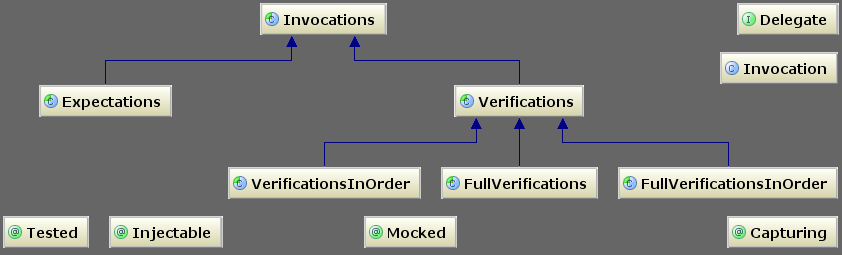
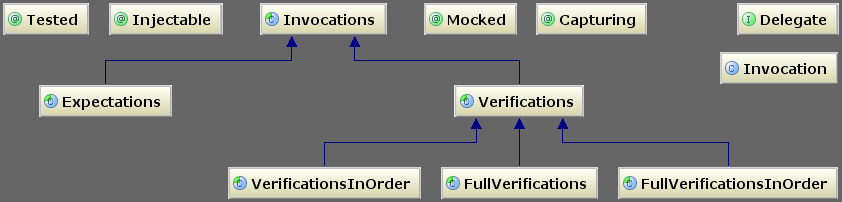
Reorganized API figures.

diff --git a/api1x/overview.html b/api1x/overview.html
@@ -12,23 +12,23 @@
 </p>
 <div style="text-align: center" title="Click on the types or titles to open associated documentation">
    <map name="figure1">
-      <area coords=" 14, 12,362, 28" href="../tutorial/EnterpriseApplications.html" target="tested">
-      <area coords=" 11, 37, 98, 71" href="mockit/Tested.html">
-      <area coords=" 17, 96,106,112" href="../tutorial/Mocking.html" target="mocking">
-      <area coords=" 45,176,179,209" href="mockit/Expectations.html">
-      <area coords="460,176,592,209" href="mockit/Verifications.html">
-      <area coords="234,258,428,291" href="mockit/VerificationsInOrder.html">
-      <area coords="447,258,605,291" href="mockit/FullVerifications.html">
-      <area coords="624,258,845,291" href="mockit/FullVerificationsInOrder.html">
-      <area coords="743, 94,845,127" href="mockit/Delegate.html">
-      <area coords="726,143,845,176" href="mockit/Invocation.html">
-      <area coords="369,308,480,340" href="mockit/Injectable.html">
-      <area coords=" 11,308,103,340" href="mockit/Mocked.html">
-      <area coords="733,308,845,340" href="mockit/Capturing.html">
-      <area coords="428, 12,503, 28" href="../tutorial/Faking.html" target="faking">
-      <area coords="422, 37,552, 71" href="mockit/MockUp.html">
-      <area coords="561, 37,636, 71" href="mockit/Mock.html">
-      <area coords="682, 37,844, 71" href="mockit/Deencapsulation.html">
+      <area coords=" 14, 12, 362, 28" href="../tutorial/EnterpriseApplications.html" target="tested">
+      <area coords=" 13, 38,  98, 71" href="mockit/Tested.html">
+      <area coords="276,186, 364,201" href="../tutorial/Mocking.html" target="mocking">
+      <area coords=" 45,176, 179,209" href="mockit/Expectations.html">
+      <area coords="460,176, 592,209" href="mockit/Verifications.html">
+      <area coords="234,258, 428,291" href="mockit/VerificationsInOrder.html">
+      <area coords="447,258, 605,291" href="mockit/FullVerifications.html">
+      <area coords="624,258, 845,291" href="mockit/FullVerificationsInOrder.html">
+      <area coords="743, 95, 845,128" href="mockit/Delegate.html">
+      <area coords="726,143, 845,176" href="mockit/Invocation.html">
+      <area coords=" 13, 95, 107,128" href="mockit/Mocked.html">
+      <area coords="123, 95, 237,128" href="mockit/Injectable.html">
+      <area coords="427, 95, 845,538" href="mockit/Capturing.html">
+      <area coords="428, 12, 503, 28" href="../tutorial/Faking.html" target="faking">
+      <area coords="422, 37, 552, 71" href="mockit/MockUp.html">
+      <area coords="561, 37, 636, 71" href="mockit/Mock.html">
+      <area coords="684, 39, 845, 71" href="mockit/Deencapsulation.html">
    </map>
    <img src="../toolkit.png" style="border: none;" usemap="overview.html#figure1">
    <br>

diff --git a/tutorial/Mocking.html b/tutorial/Mocking.html
@@ -92,17 +92,17 @@
 </ol>
 <div style="text-align: center;" title="Click on types to open API documentation">
    <map name="figure1">
-      <area coords=" 39, 84,172,117" href="../api1x/mockit/Expectations.html">
-      <area coords="453, 84,585,117" href="../api1x/mockit/Verifications.html">
-      <area coords="227,166,421,199" href="../api1x/mockit/VerificationsInOrder.html">
-      <area coords="440,166,598,199" href="../api1x/mockit/FullVerifications.html">
-      <area coords="617,166,838,199" href="../api1x/mockit/FullVerificationsInOrder.html">
-      <area coords="736,  2,838, 35" href="../api1x/mockit/Delegate.html">
-      <area coords="719, 51,838, 84" href="../api1x/mockit/Invocation.html">
-      <area coords="  2,215, 90,248" href="../api1x/mockit/Tested.html">
-      <area coords="108,215,223,248" href="../api1x/mockit/Injectable.html">
-      <area coords="363,215,457,248" href="../api1x/mockit/Mocked.html">
-      <area coords="726,215,838,248" href="../api1x/mockit/Capturing.html">
+      <area coords="  3,  3,  90, 35" href="../api1x/mockit/Tested.html">
+      <area coords="109,  3, 224, 35" href="../api1x/mockit/Injectable.html">
+      <area coords="425,  3, 518, 35" href="../api1x/mockit/Mocked.html">
+      <area coords="537,  3, 648, 35" href="../api1x/mockit/Capturing.html">
+      <area coords=" 39, 84, 172,117" href="../api1x/mockit/Expectations.html">
+      <area coords="453, 84, 585,117" href="../api1x/mockit/Verifications.html">
+      <area coords="227,166, 421,199" href="../api1x/mockit/VerificationsInOrder.html">
+      <area coords="440,166, 598,199" href="../api1x/mockit/FullVerifications.html">
+      <area coords="617,166, 838,199" href="../api1x/mockit/FullVerificationsInOrder.html">
+      <area coords="737,  3, 838, 35" href="../api1x/mockit/Delegate.html">
+      <area coords="719, 51, 838, 84" href="../api1x/mockit/Invocation.html">
    </map>
    <img src="MockingAPI.png" usemap="#figure1">
 </div>
